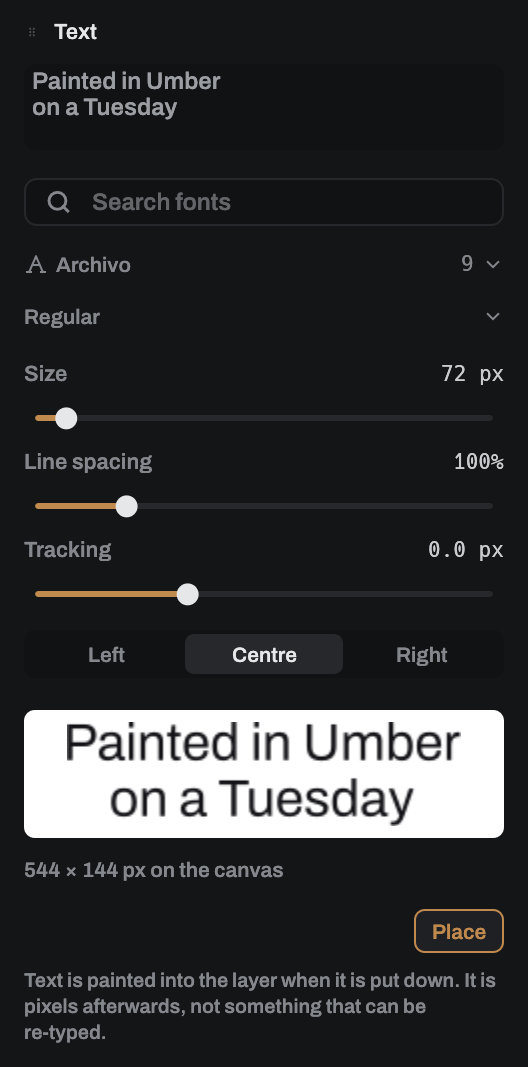
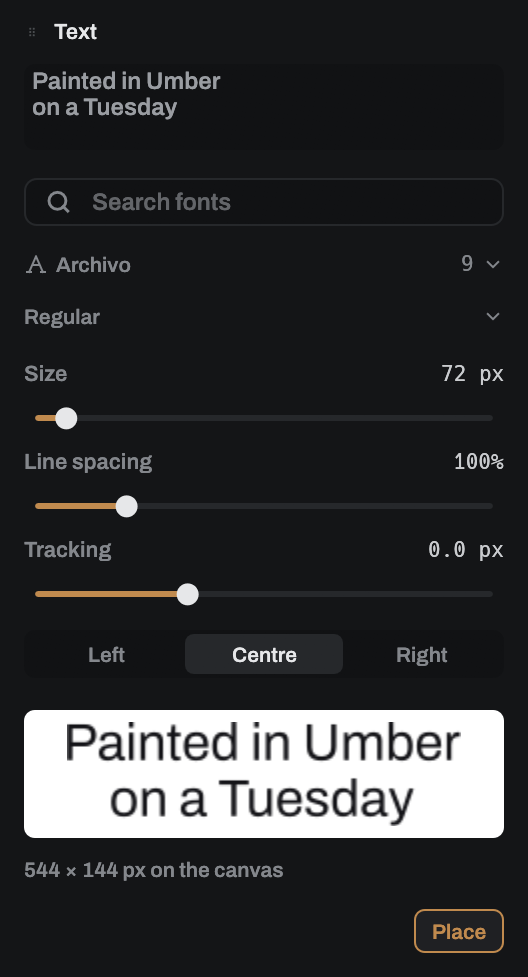
Take three explanations and a dead-looking control off two panels
Reported from a running window, all four in one go.

The Brush tweaks module opened with a paragraph about where a tweak goes
and what puts it back, and the Text module with one about placing a block
and another about text being pixels once it is down. All three are true
and none of them is the panel's job: a painter meets the panel more often
than the explanation, and the behaviour they describe is the behaviour
Size and Opacity have always had above the canvas.

The grip is the one that was doing harm. Every tweaks row carried a
hold-and-drag handle on its right, three dots in a column, offering the
same value over a longer travel than a 264-point panel can give a rail.
Three dots at the end of a row is a menu everywhere else in this
interface and everywhere else on the desktop, so it was clicked rather
than held, and a click did nothing at all -- which reads as six broken
buttons rather than as a control being held wrong.

Nothing went with it. widgets::slider_row is a drag in its own right and
covers the same range; what the grip bought was travel, not reach. The
rail now has the whole row, which is where its width went.

metrics::TWEAK_GRIP goes too, the module preview loses the dots it drew
beside each rail, and the docs images are regenerated.

Claude-Session: https://claude.ai/code/session_01XN4GR4PUBu7yrTBBsLQdyG

diff --git a/crates/umber-app/src/tweaks.rs b/crates/umber-app/src/tweaks.rs
@@ -32,51 +32,51 @@
 //!   `Editor::brush`. It has always done so; a tweak is not hidden from it, and
 //!   the Update button there is what makes one permanent.
 //!
-//! ## One table, three ways of asking
+//! ## One table, two ways of asking
 //!
-//! A rail, an increase/decrease shortcut and a hold-and-drag grip are three
-//! spellings of one question, so they go through one [`Tweak`]. What makes it
-//! worth a table rather than three call sites is the *step*: one press of a
-//! shortcut is worth [`STEP_PX`] pixels of the drag. `Brush::RESIZE_DOUBLE_PX`
-//! is 100, so a size press is `2^(20/100)` — 1.1487, the 1.15 the size
-//! shortcut has always used, now falling out of the rule instead of restating
-//! it. `a_size_press_is_still_the_115_it_always_was` pins that.
+//! A rail and an increase/decrease shortcut are two spellings of one question,
+//! so they go through one [`Tweak`]. What makes it worth a table rather than
+//! two call sites is the *step*: one press of a shortcut is worth [`STEP_PX`]
+//! pixels of the drag. `Brush::RESIZE_DOUBLE_PX` is 100, so a size press is
+//! `2^(20/100)` — 1.1487, the 1.15 the size shortcut has always used, now
+//! falling out of the rule instead of restating it.
+//! `a_size_press_is_still_the_115_it_always_was` pins that.
 //!
-//! ## The grip is not a canvas gesture, and must not become one
+//! ## There was a third, and what it cost
 //!
-//! `gesture.rs` answers "what does a press **on the canvas** mean", and the
-//! grip's press lands on a panel — where `ui_owns` is true and the answer is
-//! `Press::Ignored` unless one of the pan overrides is held, which are tested
-//! first on purpose so a middle-drag or a space-drag pans whatever it started
-//! over. None of that changed. So nothing here is in that model and
-//! `a_pen_press_resolves_to_what_a_mouse_press_would` did not have to move.
-//! It still reaches a pen: `egui-winit`'s `on_touch` emits an ordinary cursor
-//! move and mouse-button press for a contact, so a nib pressing the grip drags
-//! it exactly as a mouse does, and `app.rs`'s touch arm ignores the press for
-//! the same reason its mouse arm does.
+//! Every row used to carry a hold-and-drag grip on its right: three dots in a
+//! column, offering the same value over a longer travel than a 264-point panel
+//! can give a rail. It was reported as a row of buttons that do nothing, and
+//! that is exactly what it was. Three dots at the end of a row is a menu
+//! everywhere else in this interface and everywhere else on the desktop, so it
+//! invited a *click*, and it answered only to a hold — a control whose whole
+//! affordance pointed at the one gesture it ignored.
 //!
-//! Putting six more settings into `gesture::press` would be the combinatorial
-//! mess: Alt is already spoken for twice on the canvas — the eyedropper with a
-//! button and the size drag without one — and there is no seventh modifier, so
-//! it could only be a modal "which setting is Alt about?" that the pointer
-//! could not see. A control that says which setting it adjusts by *being* that
-//! setting's grip is the answer, and it is the one every other application with
-//! this feature reaches for.
+//! Nothing went with it. [`widgets::slider_row`] is a drag in its own right and
+//! covers the same range; what the grip bought was travel, not reach, and the
+//! rail is wider now that it has the row to itself. The lesson worth keeping is
+//! that a second control for a value the panel already has must not look like a
+//! control for something else.
 
 use crate::editor::Editor;
 use crate::shortcuts::Action;
-use crate::theme::{Palette, metrics};
+use crate::theme::Palette;
 use crate::widgets;
-use egui::{Pos2, Sense, Stroke, Ui, pos2, vec2};
+use egui::{Ui, pos2};
 use std::ops::RangeInclusive;
 use umber_core::Brush;
 
-/// How far the pointer travels, in physical window pixels, for a *linear*
-/// setting to cross its whole range under the hold-grip.
+/// How far a pointer would travel, in physical window pixels, for a *linear*
+/// setting to cross its whole range.
 ///
-/// A logarithmic one uses `Brush::RESIZE_DOUBLE_PX` instead, which is the rate
-/// the brush-size drag has always used — the point being that a size dragged
-/// by this grip and a size dragged by Alt move at exactly the same rate.
+/// The unit [`STEP_PX`] is stated in, and therefore what a shortcut press is
+/// worth. It outlived the hold-grip it was written for — see the module docs —
+/// because the shortcut still has to answer "how much is a bit more", and this
+/// is the answer that keeps the size press at the 1.15 it has always been.
+///
+/// A logarithmic setting uses `Brush::RESIZE_DOUBLE_PX` instead, which is the
+/// rate the canvas's Alt-drag has always used, so a size changed from here and
+/// a size changed on the canvas move at exactly the same rate.
 pub const DRAG_FULL_PX: f32 = 400.0;
 
 /// What one press of an increase or decrease shortcut is worth, in pixels of
@@ -371,14 +371,6 @@ pub fn of_action(action: Action) -> Option<(Tweak, f32)> {
 /// The module's body: one rail and one hold-grip per setting.
 pub fn panel(ui: &mut Ui, p: &Palette, ed: &mut Editor) {
     ui.add_space(4.0);
-    crate::controls::note(
-        ui,
-        p,
-        "Changes here go to the brush in hand, like Size and Opacity above the \
-         canvas. Picking a brush puts its own settings back; the brush editor's \
-         Update is what makes one stick.",
-    );
-    ui.add_space(10.0);
     ui.spacing_mut().item_spacing.y = 12.0;
 
     for tweak in Tweak::PANEL {
@@ -405,128 +397,30 @@ pub fn panel(ui: &mut Ui, p: &Palette, ed: &mut Editor) {
 }
 
 /// One setting: the rail, and the grip beside it.
+/// The rail takes the whole line, and there is no second control beside it.
+///
+/// There used to be a hold-and-drag grip on the right of every row, three dots
+/// in a column, offering the same value over a longer travel. It came off
+/// because of what it *looked* like: three dots at the end of a row is a menu
+/// everywhere else in this interface and everywhere else on the desktop, so it
+/// was clicked rather than held — and a click did nothing at all, which reads
+/// as a broken control rather than as a control being held wrong. Nothing was
+/// lost with it. `widgets::slider_row` covers the same range and is a drag in
+/// its own right; what the grip bought was travel, not reach, and the rail is
+/// wider now that it has the row to itself.
 fn row(ui: &mut Ui, p: &Palette, ed: &mut Editor, tweak: Tweak) {
     let mut value = tweak.value(&ed.brush);
-    // The grip's width comes off the line before the rail is drawn, because
-    // `widgets::slider_row` sizes itself from `available_width` and would
-    // otherwise take all of it and push the grip off the panel. The gap is the
-    // style's own, read rather than typed: a number here that was two points
-    // more than the layout actually spends is wrong the moment that token
-    // moves, and wrong in the direction nobody would look at.
-    let gap = ui.spacing().item_spacing.x;
-    let rail = (ui.available_width() - metrics::TWEAK_GRIP - gap).max(metrics::TWEAK_GRIP);
-    ui.horizontal(|ui| {
-        // **`vertical`, not `scope`.** A `slider_row` is two rows — the name
-        // and readout on one baseline, the rail under them — and it allocates
-        // them one after another in whatever layout it is handed. Given the
-        // horizontal one this line is in, it laid the rail out *beside* its own
-        // header and pushed both off the edge of the panel: labels with no
-        // rails under them, which is what the first shot of
-        // `tweaks_panel_preview` showed.
-        ui.vertical(|ui| {
-            ui.set_width(rail);
-            if widgets::slider_row(
-                ui,
-                p,
-                tweak.label(),
-                &mut value,
-                tweak.range(),
-                tweak.log(),
-                |v| tweak.format(v),
-            ) {
-                tweak.apply(&mut ed.brush, value);
-            }
-        });
-        grip(ui, p, ed, tweak);
-    });
-}
-
-/// The hold-and-drag handle: press it, drag anywhere, let go.
-///
-/// The rail beside it is the precise control and this is the wide one — a
-/// panel is 264 points across, so a rail's whole range is a couple of hundred
-/// pixels of travel, while this measures against the screen and keeps
-/// measuring wherever the pointer goes. It is the brush-size drag's rate and
-/// the brush-size drag's absolute-against-the-press rule, for every setting
-/// that has no modifier left to spell that with.
-///
-/// The value at the press and where the press landed live in egui's own
-/// per-widget memory rather than on [`Editor`]: they belong to one gesture on
-/// one widget, which is exactly what that memory is for, and it keeps a
-/// transient out of the state a tab switch has to reason about.
-///
-/// A panel body is a `ScrollArea`, which senses a drag of its own so a finger
-/// can scroll it, and this widget is drawn over that. It wins for the same
-/// reason every rail already in a panel does — the layer stack's opacity
-/// slider, the colour picker's three — because egui resolves an overlap to the
-/// topmost widget that senses the drag. A control here that lost to the scroll
-/// would be a control every panel in Umber has already been proving works.
-fn grip(ui: &mut Ui, p: &Palette, ed: &mut Editor, tweak: Tweak) {
-    let size = metrics::TWEAK_GRIP;
-    let (rect, response) = ui.allocate_exact_size(vec2(size, size), Sense::click_and_drag());
-
-    if response.drag_started()
-        && let Some(origin) = response.interact_pointer_pos()
-    {
-        let from = tweak.value(&ed.brush);
-        ui.data_mut(|d| d.insert_temp(response.id, (from, origin)));
+    if widgets::slider_row(
+        ui,
+        p,
+        tweak.label(),
+        &mut value,
+        tweak.range(),
+        tweak.log(),
+        |v| tweak.format(v),
+    ) {
+        tweak.apply(&mut ed.brush, value);
     }
-    if response.dragged()
-        && let Some(now) = response.interact_pointer_pos()
-        && let Some((from, origin)) = ui.data(|d| d.get_temp::<(f32, Pos2)>(response.id))
-    {
-        // egui works in points and the drag rate is stated in physical window
-        // pixels, which is what makes this grip travel at the same rate as the
-        // Alt-drag on the canvas whatever the interface scale is.
-        let scale = ed.pixels_per_point.max(1e-3);
-        let delta = glam::vec2((now.x - origin.x) * scale, (now.y - origin.y) * scale);
-        let along = umber_core::geom::drag_towards_more(delta);
-        tweak.apply(&mut ed.brush, tweak.after_drag(from, along));
-        ui.ctx().set_cursor_icon(egui::CursorIcon::ResizeHorizontal);
-    }
-    if response.drag_stopped() {
-        ui.data_mut(|d| d.remove::<(f32, Pos2)>(response.id));
-    }
-
-    let active = response.dragged();
-    let ink = if active || response.hovered() {
-        p.accent
-    } else {
-        p.text_dim
-    };
-    let painter = ui.painter();
-    if active || response.hovered() {
-        painter.rect_filled(rect, metrics::RADIUS, p.control);
-    }
-    painter.rect_stroke(
-        rect,
-        metrics::RADIUS,
-        Stroke::new(1.0, if active { p.accent } else { p.border }),
-        egui::StrokeKind::Inside,
-    );
-    // Three dots in a column: the grab mark this interface already uses on a
-    // panel header, rather than a glyph — Archivo carries none of the ones
-    // that would say this.
-    for k in 0..3 {
-        painter.circle_filled(
-            pos2(rect.center().x, rect.center().y + (k as f32 - 1.0) * 4.0),
-            1.2,
-            ink,
-        );
-    }
-
-    // `on_hover_ui`, not `on_hover_text`: the closure runs only while the
-    // pointer is on the grip, where `on_hover_text` would build this string —
-    // and the `to_lowercase` under it — once per grip per frame, on the
-    // drawing path, for six rows nobody is pointing at.
-    response.on_hover_ui(|ui| {
-        ui.label(format!(
-            "Hold and drag to set {}. Right and up for more, left and down for \
-             less; come back to where you pressed and it is exactly what it \
-             was.",
-            tweak.label().to_lowercase()
-        ));
-    });
 }
 
 /// The module's picture in the module library, painted into `body`.
@@ -537,10 +431,10 @@ fn grip(ui: &mut Ui, p: &Palette, ed: &mut Editor, tweak: Tweak) {
 /// palette tokens, never a bitmap.
 pub fn preview(painter: &egui::Painter, p: &Palette, body: egui::Rect) {
     let ink = p.text_dim;
-    // Three rails with a grip beside each, which is exactly what the panel is.
+    // Three rails across the whole width, which is exactly what the panel is.
     for k in 0..3 {
         let y = body.top() + 6.0 + k as f32 * 11.0;
-        let right = body.right() - 8.0;
+        let right = body.right();
         painter.rect_filled(
             egui::Rect::from_min_max(pos2(body.left(), y - 1.0), pos2(right, y + 1.0)),
             1.0,
@@ -554,15 +448,13 @@ pub fn preview(painter: &egui::Painter, p: &Palette, body: egui::Rect) {
             2.5,
             p.accent,
         );
-        for dot in 0..3 {
-            painter.circle_filled(pos2(right + 4.0, y + (dot as f32 - 1.0) * 2.2), 0.7, ink);
-        }
     }
 }
 
 #[cfg(test)]
 mod tests {
     use super::*;
+    use crate::theme::metrics;
     use glam::vec2;
     use umber_core::geom::drag_towards_more;
 

diff --git a/crates/umber-app/src/textpanel.rs b/crates/umber-app/src/textpanel.rs
@@ -690,12 +690,6 @@ fn build_preview(ui: &Ui, ed: &mut Editor, key: u64) -> Preview {
 /// What the block will look like, in the face it will be set in.
 fn preview(ui: &mut Ui, p: &Palette, ed: &mut Editor) {
     if ed.text.block.text.trim().is_empty() {
-        controls::note(
-            ui,
-            p,
-            "Type something above, then Place it on the canvas to move, scale \
-             and turn it before it is put down.",
-        );
         return;
     }
 
@@ -857,13 +851,6 @@ fn place_row(ui: &mut Ui, p: &Palette, ed: &Editor, actions: &mut UiActions) {
             response.on_hover_text(tooltip);
         });
     });
-    ui.add_space(2.0);
-    controls::note(
-        ui,
-        p,
-        "Text is painted into the layer when it is put down. It is pixels \
-         afterwards, not something that can be re-typed.",
-    );
 }
 
 #[cfg(test)]

diff --git a/crates/umber-app/src/app.rs b/crates/umber-app/src/app.rs
@@ -1848,8 +1848,8 @@ impl UmberApp {
             Action::ZoomTool => self.pick_tool(Tool::Zoom),
             Action::SwapColours => self.editor.swap_colors(),
             // Every temporary brush change goes through one table, so the
-            // shortcut, the Brush tweaks rail and its hold-grip cannot
-            // disagree about what "a bit more" is worth — see `tweaks`. The
+            // shortcut and the Brush tweaks rail cannot disagree about what
+            // "a bit more" is worth — see `tweaks`. The
             // two size arms used to spell 1.15 here; that figure is now what
             // `STEP_PX` of the drag comes to, which is where it came from.
             Action::SizeDown

diff --git a/crates/umber-app/src/theme.rs b/crates/umber-app/src/theme.rs
@@ -653,11 +653,6 @@ pub mod metrics {
     pub const SLIDER_ROW: f32 = 16.0;
     pub const SLIDER_RAIL: f32 = 3.0;
     pub const SLIDER_KNOB: f32 = 11.0;
-    /// The hold-and-drag handle beside a Brush tweaks rail. Square, and wide
-    /// enough to be pressed with a nib rather than only clicked with a mouse —
-    /// which is the whole point of it: the rail is the precise control and this
-    /// is the one you can throw a hand at.
-    pub const TWEAK_GRIP: f32 = 22.0;
     /// A brush in the Brushes panel: sample and name on one line.
     pub const BRUSH_ROW: f32 = 26.0;
     /// A brush in the library browser, where a second line carries the

diff --git a/crates/umber-app/src/docshot.rs b/crates/umber-app/src/docshot.rs
@@ -328,7 +328,7 @@ fn interface(stage: &mut Stage, dir: &Path) -> Result<Vec<(PathBuf, u64, u32, u3
         "layers.png",
     )?);
 
-    // The Brush tweaks module: six rails and a grip beside each. An elliptical
+    // The Brush tweaks module: six rails, each across the whole row. An elliptical
     // dab so the Angle rail is live rather than greyed, which is the one row
     // whose enablement is decided by another row.
     out.push(panel_shot(

diff --git a/README.md b/README.md
@@ -111,12 +111,11 @@ hardness, scatter, ellipticity, angle and colour.
 
 ### Change one mid-painting
 
-<img src="docs/images/tweaks.png" alt="The Brush tweaks module: six rails, each
-with a hold-and-drag grip beside it" align="right" width="270">
+<img src="docs/images/tweaks.png" alt="The Brush tweaks module: six rails"
+align="right" width="270">
 
 **Brush tweaks** puts six rails where you can reach them while a picture is
-under way. Each has a hold-and-drag grip beside it, and size and opacity have
-theirs above the canvas already.
+under way. Size and opacity are above the canvas already.
 
 All eight take a keyboard pair too. They change the brush in your hand and not
 the brush you saved, so picking any brush puts its own settings back.
